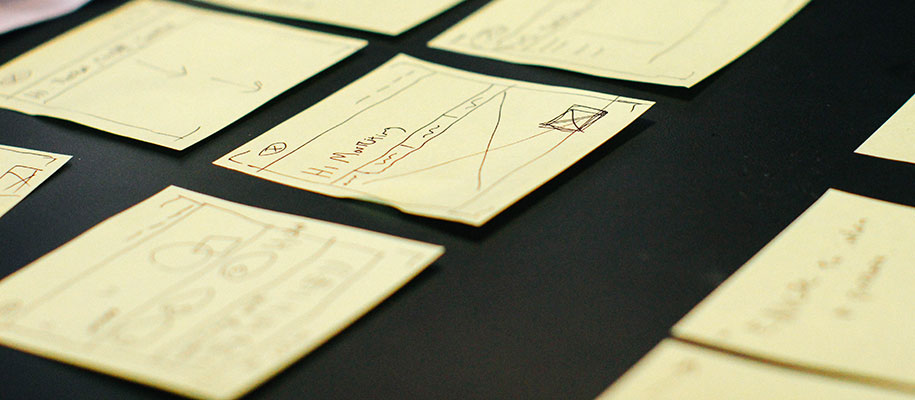
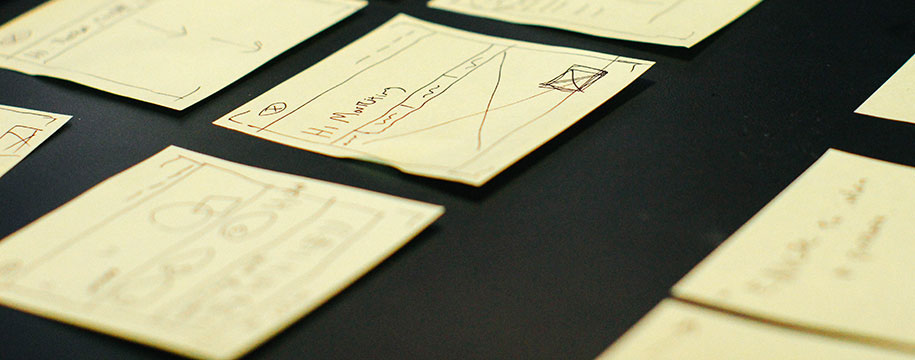
changed contact me from form to a direct email
modified size of home page image to fit into new height px size

diff --git a/css/style.css b/css/style.css
@@ -545,7 +545,7 @@ textarea#message{
 .center h2 {
 	font-size: 36px;
 	margin-top: 0;
-	margin-bottom: 5px;
+	margin-bottom: 20px;
 }
 .center {
 	text-align: center;

diff --git a/chat-with-us/index.php b/chat-with-us/index.php
@@ -64,8 +64,9 @@
 		<div class="container">
 			<div class="center">
 				<h2>Would love to hear from you!</h2>
+				<a href="mailto:marie@jtdesignsolutions.com"><button class="btn btn-primary btn-lg">Email Me.</button></a>
 			</div>
-			<div class="row contact-wrap">
+			<!--<div class="row contact-wrap">
 				<div class="status alert alert-success" style="display: none"></div>
 				<form id="main-contact-form" class="contact-form" name="contact-form" method="post" action=".../php/swiftmailer.php">
 					<div class="col-sm-5 col-sm-offset-1">
@@ -96,8 +97,7 @@
 						</div>
 					</div>
 				</form>
-			</div>
-			<!--/.row-->
+			</div>-->
 		</div>
 		<!--/.container-->
 	</section>
